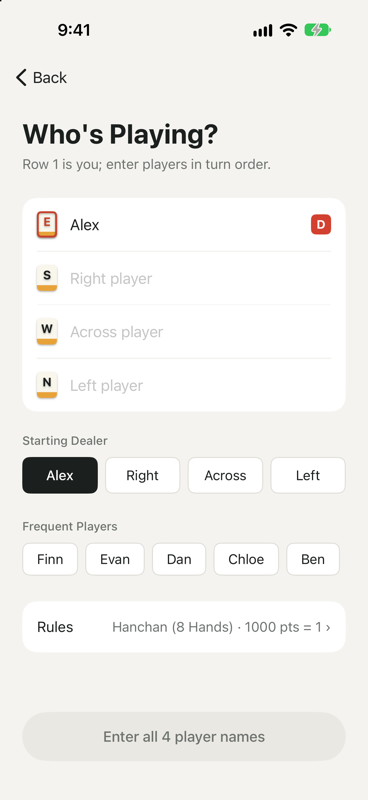
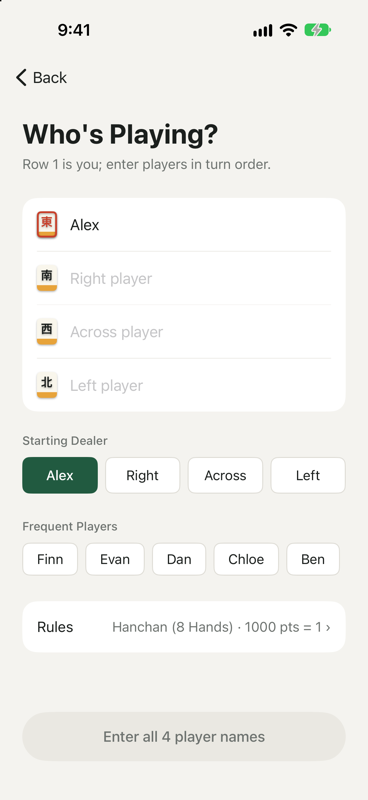
Felt-green buttons, traditional wind tiles, one dealer mark, version 1.0.0
- Primary buttons, the table actions and the selected tsumo/ron are felt
  green instead of black (black capsules are the Guobiao look).
- Wind tiles always read 東南西北 in every language, like real tiles.
- The dealer is marked only by the red-bordered tile; the extra 庄 badge on
  the new-game rows is gone.
- Hand detail opens with the same felt header as the result screen.
- The rare yaku and other players' riichi sticks open in a small felt sheet.
- Version is 1.0.0 (1) for the new app. Developer settings stay DEBUG-only.

diff --git a/app/MajiangApp/Screens/HandDetailView.swift b/app/MajiangApp/Screens/HandDetailView.swift
@@ -56,38 +56,40 @@ struct HandDetailView: View {
         ScrollView {
             VStack(alignment: .leading, spacing: 0) {
                 let dealerName = game.players[game.dealer(ofHand: record.handIndex)].name
-                Text(tr("第 \(number) 局 · \(game.handTitle(for: record)) · \(dealerName)坐庄",
-                        "第\(number)局・\(game.handTitle(for: record))・親：\(dealerName)",
-                        "Hand #\(number) · \(game.handTitle(for: record)) · Dealer: \(dealerName)"))
-                    .font(.system(size: 14))
-                    .foregroundStyle(Theme.gray)
-                    .padding(.top, 6)
-
                 let paid = game.rules.paidFan(win)
                 let limit = Payment.limitName(han: paid, fu: win.fu, kiriageMangan: game.rules.kiriageMangan)
-                HStack(alignment: .firstTextBaseline) {
-                    Text(win.isSelfDrawn
-                         ? tr("\(game.players[win.winner].name)自摸", "\(game.players[win.winner].name) ツモ", "\(game.players[win.winner].name) Tsumo")
-                         : tr("\(game.players[win.winner].name)和", "\(game.players[win.winner].name) ロン", "\(game.players[win.winner].name) Ron"))
-                        .font(Theme.glyph(28, semibold: true))
-                        .lineLimit(1)
-                        .minimumScaleFactor(0.7)
-                    Spacer(minLength: 12)
-                    HStack(alignment: .firstTextBaseline, spacing: 6) {
-                        if let limit {
-                            LimitStamp(text: limit, size: 14)
-                                .alignmentGuide(.firstTextBaseline) { d in d[.bottom] - 3 }
+                // 跟结果页一样的绿毡头：谁怎么和的、赢多少、段位和翻符
+                FeltBanner {
+                    VStack(spacing: 4) {
+                        Text(tr("第 \(number) 局 · \(game.handTitle(for: record)) · \(dealerName)坐庄",
+                                "第\(number)局・\(game.handTitle(for: record))・親：\(dealerName)",
+                                "Hand #\(number) · \(game.handTitle(for: record)) · Dealer: \(dealerName)"))
+                            .font(.system(size: 12))
+                            .foregroundStyle(.white.opacity(0.7))
+                        Text(win.isSelfDrawn
+                             ? tr("\(game.players[win.winner].name) · 自摸", "\(game.players[win.winner].name)・ツモ", "\(game.players[win.winner].name) · Tsumo")
+                             : tr("\(game.players[win.winner].name) · 荣和", "\(game.players[win.winner].name)・ロン", "\(game.players[win.winner].name) · Ron"))
+                            .font(.system(size: 15))
+                            .foregroundStyle(.white.opacity(0.85))
+                            .padding(.top, 6)
+                        Text(Theme.signed(record.deltas[win.winner]))
+                            .font(Theme.score(52, weight: .bold))
+                            .tracking(-1.2)
+                            .lineLimit(1)
+                            .minimumScaleFactor(0.6)
+                        HStack(spacing: 10) {
+                            if let limit { LimitStamp(text: limit, size: 14, color: .white) }
+                            Text(tr("\(win.totalFan) 翻 · \(win.fu) 符", "\(win.totalFan)翻・\(win.fu)符", "\(win.totalFan) han · \(win.fu) fu"))
+                                .font(Theme.score(14, weight: .regular))
+                                .foregroundStyle(.white.opacity(0.85))
                         }
-                        Text("\(win.totalFan)")
-                            .font(Theme.score(40, weight: .semibold))
-                        Text(tr("翻", "翻", "han")).font(Theme.glyph(18))
-                        Text(tr("· \(win.fu) 符", "・\(win.fu)符", "· \(win.fu) fu"))
-                            .font(Theme.score(16))
-                            .foregroundStyle(Theme.gray)
                     }
+                    .padding(.top, 18)
+                    .padding(.bottom, 24)
+                    .padding(.horizontal, 20)
                     .accessibilityElement(children: .combine)
                 }
-                .padding(.top, 2)
+                .padding(.horizontal, -20)
 
                 if game.rules.paidFan(win) < win.totalFan {
                     Text(tr("桌规封顶 \(game.rules.fanCap) 翻：\(win.totalFan) 翻按 \(game.rules.fanCap) 算",

diff --git a/app/MajiangApp/Round/CheckView.swift b/app/MajiangApp/Round/CheckView.swift
@@ -90,6 +90,7 @@ struct CheckView: View {
         .navigationBarBackButtonHidden()
         .toolbar(.hidden, for: .navigationBar)
         .sheet(item: $editing) { target in sheet(for: target) }
+        .sheet(isPresented: $rareOpen) { rareSheet }
         // 牌摆上绿毡时很轻地震一下
         .sensoryFeedback(.impact(flexibility: .soft, intensity: 0.6), trigger: landed) { _, new in new }
         .task {
@@ -593,13 +594,12 @@ struct CheckView: View {
                     token(tr("其他", "その他", "More"), on: rareOpen || rareCount > 0) {
                         chipFace(rareCount > 0 ? "+\(rareCount)" : "+", on: rareCount > 0).frame(height: 24)
                     } action: {
-                        withAnimation(.easeOut(duration: 0.2)) { rareOpen.toggle() }
+                        rareOpen = true
                     }
                 }
                 Spacer(minLength: 0)
                 if game.rules.includeFlowers { dora }
             }
-            if rareOpen { rareChips }
         }
         .padding(16)
         .foregroundStyle(.white)
@@ -666,7 +666,23 @@ struct CheckView: View {
         .accessibilityLabel(label)
     }
 
-    /// 「其他」点开：少见的役（双立直、岭上、海底……）和别家也立直了。
+    /// 「其他」：一小页绿毡，放少见的役和别家的立直棒。
+    private var rareSheet: some View {
+        VStack(alignment: .leading, spacing: 16) {
+            Text(tr("其他", "その他", "More"))
+                .font(.system(size: 20, weight: .bold))
+            rareChips
+            Spacer(minLength: 0)
+        }
+        .padding(24)
+        .frame(maxWidth: .infinity, alignment: .leading)
+        .foregroundStyle(.white)
+        .presentationDetents([.height(320)])
+        .presentationDragIndicator(.visible)
+        .presentationBackground { FeltTexture() }
+    }
+
+    /// 「其他」里面：少见的役（双立直、岭上、海底……）和别家也立直了。
     private var rareChips: some View {
         VStack(alignment: .leading, spacing: 10) {
             FlowLayout(spacing: 8) {
@@ -937,7 +953,7 @@ private struct SeatPicker: View {
         let ring: Color = isWinner ? .white : isDiscarder ? Color(hex: 0xFFD27A) : .clear
         return Button { pick(player) } label: {
             VStack(spacing: 1) {
-                WindTile(text: Theme.windGlyph(game.seatWind(of: player, inHand: hand).name),
+                WindTile(text: Theme.tileGlyph(game.seatWind(of: player, inHand: hand)),
                          isDealer: game.dealer(ofHand: hand) == player, width: 19)
                 Text(game.players[player].name)
                     .font(.system(size: 9))

diff --git a/app/MajiangApp/Support/Theme.swift b/app/MajiangApp/Support/Theme.swift
@@ -5,7 +5,7 @@ import UIKit
 /// 视觉「胡桃木牌桌」：暖白的页面上放一张胡桃木框的绿毡牌桌，风位用真的风牌，供托用真的千点棒。
 /// 页面颜色在 Assets.xcassets 的 Table*，各有深色版本；牌桌、木框、牌是实物颜色，深浅模式一样。
 /// 红色只用在两处：庄家和立直棒上的红点。赢的点数用毡绿，输的用墨色。
-/// 文字用 `ink`，按钮底色用 `fill`（上面放白字）：`ink` 在深色模式是浅色，不能拿来垫白字。
+/// 文字用 `ink`，按钮底色用 `fill`（毡绿，上面放白字）：`ink` 在深色模式是浅色，不能拿来垫白字。
 enum Theme {
     static let paper = Color("TablePaper")
     /// 卡片底：浅色模式是白，不加边框阴影。
@@ -51,6 +51,11 @@ enum Theme {
     /// 「+12,000」「−7,600」「0」。负号用真正的减号，和加号一样宽。
     static func signed(_ value: Int) -> String {
         value > 0 ? "+\(grouped(value))" : value < 0 ? "−\(grouped(-value))" : "0"
+    }
+
+    /// 风牌上的字：不管什么语言都写传统的「東南西北」，跟桌上的真牌一样。
+    static func tileGlyph(_ wind: Wind) -> String {
+        ["東", "南", "西", "北"][wind.rawValue]
     }
 
     /// 风位一个字：英文只写首字母（E、S、W、N），窄的地方放不下四个字母。
@@ -145,7 +150,7 @@ private struct ReadableColumn: ViewModifier {
     }
 }
 
-/// 每页唯一的主按钮：墨色胶囊（深色模式是毡绿）。不能点时变成灰底，按钮上直接写原因。
+/// 每页唯一的主按钮：毡绿胶囊。不能点时变成灰底，按钮上直接写原因。
 struct PrimaryButtonStyle: ButtonStyle {
     @Environment(\.isEnabled) private var isEnabled
 

diff --git a/app/MajiangApp/Components/TableBoard.swift b/app/MajiangApp/Components/TableBoard.swift
@@ -211,7 +211,7 @@ extension TableBoard {
             var name = game.players[player].name
             if player == game.me { name += tr(" · 你", "・あなた", " · you") }
             return Seat(id: player,
-                        wind: Theme.windGlyph(game.seatWind(of: player, inHand: hand).name),
+                        wind: Theme.tileGlyph(game.seatWind(of: player, inHand: hand)),
                         name: name,
                         points: game.currentPoints(of: player),
                         isDealer: !game.isFinished && game.dealer(ofHand: hand) == player)
@@ -224,7 +224,7 @@ extension TableBoard {
 
     /// 还没开局时的空桌：东南西北四个空位，你坐东。
     static var empty: TableBoard {
-        let winds = [tr("东", "東", "E"), tr("南", "南", "S"), tr("西", "西", "W"), tr("北", "北", "N")]
+        let winds = (0..<4).map { Theme.tileGlyph(Wind(rawValue: $0)!) }
         let names = [tr("你", "あなた", "You"), tr("下家", "下家", "Right"), tr("对家", "対面", "Across"), tr("上家", "上家", "Left")]
         return TableBoard(
             seats: (0..<4).map { Seat(id: $0, wind: winds[$0], name: names[$0], points: Game.startingPoints, isDealer: $0 == 0) },

diff --git a/app/MajiangApp/Screens/NewGameView.swift b/app/MajiangApp/Screens/NewGameView.swift
@@ -41,7 +41,7 @@ struct NewGameView: View {
                     ForEach(0..<4, id: \.self) { i in
                         HStack(spacing: 14) {
                             // 门风跟着第一局的庄走：庄是东，往下南、西、北
-                            WindTile(text: Theme.windGlyph(Wind(rawValue: (i - dealerRow + 4) % 4)!.name),
+                            WindTile(text: Theme.tileGlyph(Wind(rawValue: (i - dealerRow + 4) % 4)!),
                                      isDealer: i == dealerRow, width: 22)
                             TextField(Self.seatHints[i], text: $names[i])
                                 .font(.system(size: 17))
@@ -49,7 +49,6 @@ struct NewGameView: View {
                                 .submitLabel(i < 3 ? .next : .done)
                                 .onSubmit { focused = i < 3 ? i + 1 : nil }
                                 .accessibilityLabel(Self.seatNames[i])
-                            if i == dealerRow { DealerStamp() }
                         }
                         .frame(height: 58)
                         if i < 3 { Hairline(color: Theme.lineSoft) }

diff --git a/app/MajiangApp/Screens/SettleView.swift b/app/MajiangApp/Screens/SettleView.swift
@@ -34,7 +34,7 @@ struct SettleView: View {
                                 .font(Theme.glyph(14))
                                 .foregroundStyle(.white)
                                 .frame(width: 24, height: 24)
-                                .background(place == 0 ? Theme.felt[1] : Theme.fill, in: RoundedRectangle(cornerRadius: 6, style: .continuous))
+                                .background(place == 0 ? Theme.fill : Theme.gray, in: RoundedRectangle(cornerRadius: 6, style: .continuous))
                             Text(game.players[player].name).font(.system(size: 17, weight: .medium))
                             Spacer()
                             // 结算是拿来转钱的：大字写钱，1 分不是 1 元时旁边小字写分，跟下面的转账对得上

diff --git a/app/MajiangApp/Support/ShareCard.swift b/app/MajiangApp/Support/ShareCard.swift
@@ -89,7 +89,7 @@ struct ShareCard: View {
                         .font(Theme.glyph(13))
                         .foregroundStyle(.white)
                         .frame(width: 22, height: 22)
-                        .background(place == 0 ? Theme.felt[1] : Theme.tileInk, in: RoundedRectangle(cornerRadius: 5, style: .continuous))
+                        .background(place == 0 ? Theme.felt[1] : Color(hex: 0x6E7370), in: RoundedRectangle(cornerRadius: 5, style: .continuous))
                     Text(game.players[player].name)
                         .font(.system(size: 17, weight: .medium))
                         .lineLimit(1)

diff --git a/app/MajiangApp/Components/HandSummary.swift b/app/MajiangApp/Components/HandSummary.swift
@@ -60,7 +60,7 @@ struct DeltaGrid: View {
         HStack(alignment: .top, spacing: 8) {
             ForEach(seatOrder, id: \.self) { i in
                 VStack(spacing: 6) {
-                    WindTile(text: Theme.windGlyph(game.seatWind(of: i, inHand: hand).name),
+                    WindTile(text: Theme.tileGlyph(game.seatWind(of: i, inHand: hand)),
                              isDealer: game.dealer(ofHand: hand) == i, width: 22)
                     Text(game.players[i].name).font(.system(size: 12)).foregroundStyle(Theme.gray).lineLimit(1)
                     Text(Theme.signed(deltas[i]))

diff --git a/app/MajiangApp/Screens/HomeView.swift b/app/MajiangApp/Screens/HomeView.swift
@@ -73,7 +73,7 @@ private struct EmptyGameView: View {
     }
 }
 
-/// 牌桌下面的一排操作：主操作是墨色胶囊（带图标），旁边一个玻璃胶囊。点下去轻震一下。
+/// 牌桌下面的一排操作：主操作是毡绿胶囊（带图标），旁边一个玻璃胶囊。点下去轻震一下。
 struct TableActions: View {
     var symbol: String
     var title: String

diff --git a/app/tools/make_theme_assets.py b/app/tools/make_theme_assets.py
@@ -8,7 +8,7 @@ COLORS = {
     "TablePaper": ("F4F3EF", "121513"),
     "TableCard": ("FFFFFF", "1C201E"),
     "TableInk": ("1B1F1D", "ECEDEB"),
-    "TableFill": ("1B1F1D", "2E7353"),
+    "TableFill": ("215A40", "2E7353"),
     "TableRed": ("D2402F", "E5574A"),
     "TablePositive": ("215A40", "6FC39A"),
     "TableGray": ("6E7370", "A4A8A5"),
